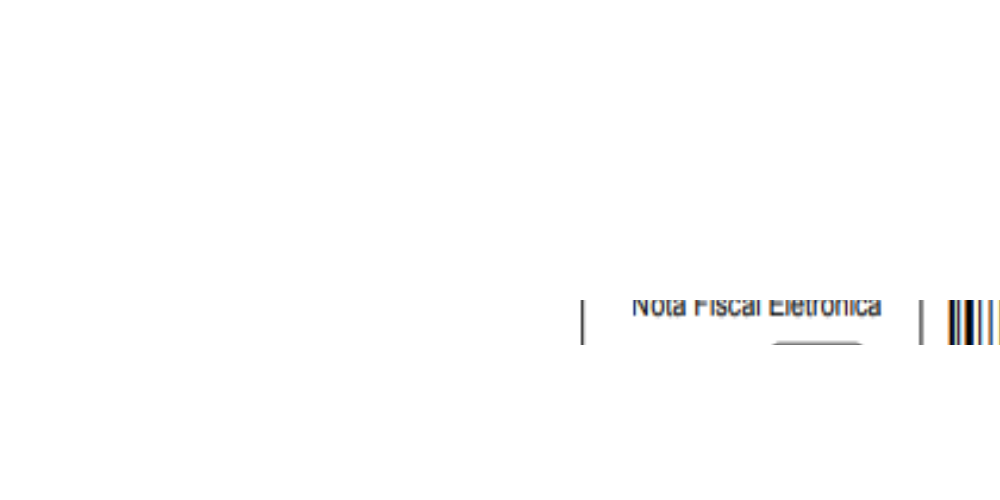
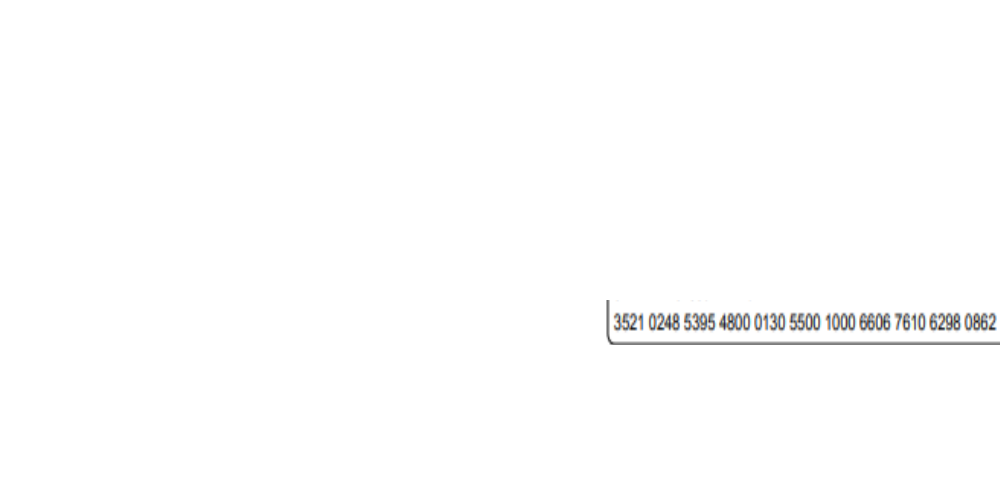
upt 24-05-21

Changed region(s): [[0.558, 0.6, 1.0, 0.69]]

diff --git a/control/ocr_controller.js b/control/ocr_controller.js
@@ -17,12 +17,12 @@ const ctx = canvas.getContext('2d')
 ctx.beginPath()
 // ctx.lineTo(50, 102)
 // ctx.arc(0, 0, 160, 0, Math.PI * 2, true)
-ctx.rect(550,300,520,45)
+ctx.rect(600,300,520,45)
 ctx.clip()
 // ctx.lineTo(50 + text.width, 102)
 ctx.stroke()
-// ctx.scale(1.6,1.5)
-ctx.scale(2.5,2)
+ctx.scale(1.6,1.5)
+// ctx.scale(2.5,2)
 
 module.exports = {
   async index(request, response, next){
@@ -32,7 +32,7 @@ module.exports = {
           ctx.drawImage(image, 0, 0, 720, 1280)
           return canvas.toDataURL();
         }).catch(err => {
-          console.log('oh no!', err)
+          console.log('Ops!', err)
         })
         let base64Image = myimg.split(';base64,').pop();
         fs.writeFile('./Upload/image.png', base64Image, {encoding: 'base64'}, function(err) {
@@ -40,8 +40,8 @@ module.exports = {
         });
 
         const result = await Tesseract.recognize(
-          `./Upload/${request.file.filename}`,
-          // './Upload/image.png',
+          // `./Upload/${request.file.filename}`,
+          './Upload/image.png',
           'por',
           // { logger: m => console.log(m) }
         ).then(({ data: { text } }) => {
